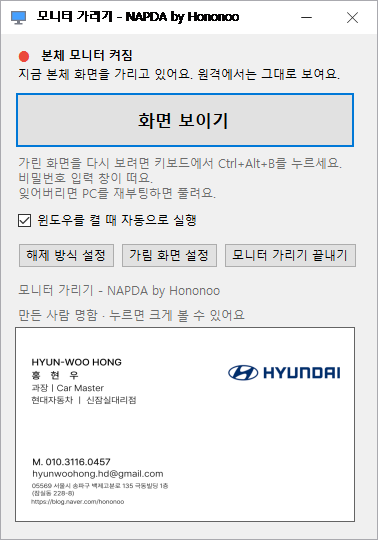
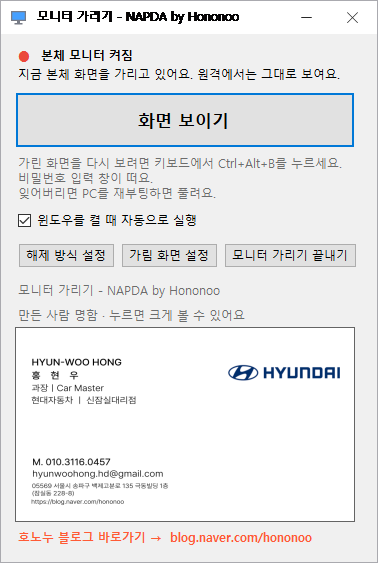
모니터 가리기 v1.7: 호노누 블로그 바로가기
- 명함 아래, 명함 크게 보기 창, 트레이 메뉴에 "호노누 블로그 바로가기"(blog.naver.com/hononoo)
- 정보 창에 호노누 블로그 주소, NAPDA 블로그 바로 열기
- 자가 테스트에 블로그 링크 확인 추가, README·문서용 그림 갱신

diff --git a/MonitorCover.cs b/MonitorCover.cs
@@ -40,17 +40,21 @@ namespace Napda.MonitorCover
         public const string Name = "모니터 가리기";
         public const string Company = "NAPDA";
         public const string Author = "Hononoo";
-        public const string ShortVersion = "1.6";
+        public const string ShortVersion = "1.7";
         public const string Version = ShortVersion + ".0.0";
         public const string Credit = Name + " - " + Company + " by " + Author;
         public const string Copyright = "Copyright (c) 2026 " + Author + " (" + Company + "). MIT License.";
-        // 블로그·포트폴리오 주소가 생기면 여기에 넣는다. 정보 창에서 바로 열 수 있다.
-        public const string Link = "";
+        // NAPDA 프로그램 블로그. 정보 창에서 바로 열 수 있다.
+        public const string Link = "https://napdaworks.blogspot.com";
+        // 만든 사람(호노누) 블로그. 명함 아래·명함 창·트레이 메뉴에서 바로 연다.
+        public const string AuthorBlog = "https://blog.naver.com/hononoo";
+        public const string AuthorBlogLabel = "blog.naver.com/hononoo";
 
         public const string Text =
             Name + " v" + ShortVersion + "\n" +
             "만든 곳: " + Company + " (냅다)\n" +
-            "만든 사람: " + Author + "\n\n" +
+            "만든 사람: " + Author + "\n" +
+            "호노누 블로그: " + AuthorBlogLabel + "\n\n" +
             "본체 모니터만 검게 가리고, 원격 화면에는 원래 화면이 그대로 보이게 해요.\n\n" +
             Copyright + "\n" +
             "수정하거나 다시 배포할 때도 만든 사람 표기를 지우면 안 돼요.";
@@ -1414,6 +1418,35 @@ namespace Napda.MonitorCover
     }
 
     // 명함을 크게 보여 주는 창
+    static class Links
+    {
+        public static void Open(string url)
+        {
+            try
+            {
+                Process.Start(url);
+            }
+            catch (Exception ex)
+            {
+                ErrorLog.Write(ex);
+            }
+        }
+
+        // "호노누 블로그 바로가기" 링크 (명함 아래·명함 창에 같이 쓴다)
+        public static LinkLabel AuthorBlog(Font font)
+        {
+            var link = new LinkLabel();
+            link.Text = "호노누 블로그 바로가기 →  " + About.AuthorBlogLabel;
+            link.Font = new Font(font, FontStyle.Bold);
+            link.AutoSize = true;
+            link.LinkColor = Color.FromArgb(255, 90, 54);
+            link.ActiveLinkColor = Color.FromArgb(200, 60, 30);
+            link.LinkBehavior = LinkBehavior.HoverUnderline;
+            link.LinkClicked += delegate { Open(About.AuthorBlog); };
+            return link;
+        }
+    }
+
     class CardViewer : Form
     {
         public CardViewer(Image card, Icon icon)
@@ -1429,7 +1462,15 @@ namespace Napda.MonitorCover
 
             Rectangle work = Screen.PrimaryScreen.WorkingArea;
             float fit = Math.Min(1f, Math.Min(work.Width * 0.8f / card.Width, work.Height * 0.8f / card.Height));
-            ClientSize = new Size((int)(card.Width * fit), (int)(card.Height * fit));
+            Font = Ui.Font;
+            LinkLabel blog = Links.AuthorBlog(Ui.Font);
+            var bottom = new Panel();
+            bottom.Dock = DockStyle.Bottom;
+            bottom.Height = blog.PreferredHeight + (int)(20 * Ui.Scale);
+            bottom.BackColor = Color.FromArgb(244, 245, 247);
+            blog.Location = new Point((int)(14 * Ui.Scale), (bottom.Height - blog.PreferredHeight) / 2);
+            bottom.Controls.Add(blog);
+            ClientSize = new Size((int)(card.Width * fit), (int)(card.Height * fit) + bottom.Height);
             var picture = new PictureBox();
             picture.Image = card;
             picture.SizeMode = PictureBoxSizeMode.Zoom;
@@ -1437,6 +1478,7 @@ namespace Napda.MonitorCover
             picture.Cursor = Cursors.Hand;
             picture.Click += delegate { Close(); };
             Controls.Add(picture);
+            Controls.Add(bottom);
             KeyDown += delegate(object sender, KeyEventArgs e)
             {
                 if (e.KeyCode == Keys.Escape) Close();
@@ -1752,6 +1794,9 @@ namespace Napda.MonitorCover
                 Ui.AddWide(grid, cardTitle);
                 Ui.AddWide(grid, cardBox);
             }
+            LinkLabel blog = Links.AuthorBlog(Ui.Font);
+            blog.Margin = new Padding(0, (int)(8 * scale), 0, 0);
+            Ui.AddWide(grid, blog);
             Controls.Add(grid);
         }
 
@@ -2004,6 +2049,7 @@ namespace Napda.MonitorCover
             menu.Items.Add(new ToolStripSeparator());
             menu.Items.Add(new ToolStripMenuItem("가림 화면 설정...", null, delegate { OpenCoverSettings(); }));
             menu.Items.Add(new ToolStripMenuItem("만든 사람 명함 보기", null, delegate { ShowCard(); }));
+            menu.Items.Add(new ToolStripMenuItem("호노누 블로그 바로가기", null, delegate { Links.Open(About.AuthorBlog); }));
             menu.Items.Add(new ToolStripMenuItem(About.Credit + " (v" + About.ShortVersion + ")", null, delegate { ShowAbout(); }));
             menu.Items.Add(new ToolStripMenuItem("종료", null, delegate { RequestReveal(QuitNow); }));
             menu.Opening += delegate
@@ -2512,6 +2558,7 @@ namespace Napda.MonitorCover
 
             using (Image card = CardImage.Load())
                 check(card != null && card.Width > 0, "business card is built into the exe");
+            check(About.AuthorBlog == "https://blog.naver.com/hononoo" && About.Text.Contains(About.AuthorBlogLabel), "maker's blog link is in the program");
             RectangleF wideOnTall = CoverLook.FillArea(new Size(100, 100), new Size(200, 100));
             check(wideOnTall.Height == 100 && wideOnTall.Width == 200 && wideOnTall.X == -50, "cover image fills the screen and crops the sides evenly");
             RectangleF tallOnWide = CoverLook.FillArea(new Size(1920, 1080), new Size(1080, 1920));

diff --git a/README.md b/README.md
@@ -1,6 +1,6 @@
 # 모니터 가리기
 
-**만든 곳: NAPDA (냅다) · 만든 사람: Hononoo** · MIT License · v1.6
+**만든 곳: NAPDA (냅다) · 만든 사람: Hononoo** · MIT License · v1.7
 
 본체에 연결된 모니터만 까맣게 가리는 윈도우 프로그램이에요. PC는 그대로 돌아가고, 원격 접속(크롬 원격 데스크톱 등) 화면에는 원래 화면이 그대로 보여요.
 
@@ -62,6 +62,7 @@
 | 해제 방식 설정... | 단축키를 바꾸고, 비밀번호를 걸거나 없애요 |
 | 가림 화면 설정... | 가릴 때 보일 색이나 이미지를 골라요 |
 | 만든 사람 명함 보기 | 만든 사람 명함을 크게 보여 줘요 |
+| 호노누 블로그 바로가기 | 만든 사람 블로그(blog.naver.com/hononoo)를 열어요 |
 | 실행하면 바로 가리기 | 프로그램이 켜지자마자 가려요 (아래 주의 참고) |
 | 윈도우 시작 시 자동 실행 | 시작프로그램 폴더에 바로가기를 만들어요. 로그인할 때는 창 없이 조용히 켜져요 |
 | 바탕화면 버튼 만들기 | 바탕화면 버튼을 지웠을 때 다시 만들어요 |
@@ -157,4 +158,4 @@
 
 누구나 무료로 쓰고, 고치고, 다시 배포할 수 있어요. 단, **저작권 표기("Copyright (c) 2026 Hononoo (NAPDA)")와 라이선스 문구는 지우면 안 돼요.**
 프로그램 안에도 exe 파일 속성(자세히 탭: 회사 NAPDA), 창 제목, 트레이 메뉴, 정보 창, 해제 방식 설정 창, 비밀번호 창, 바탕화면 버튼 설명에 만든 곳과 만든 사람이 표시돼 있어요.
-창 아래쪽에는 **만든 사람 명함**이 들어 있어요. 명함 그림은 exe 안에 들어 있어서 프로그램에서 지우거나 숨길 수 없고, 누르면 크게 볼 수 있어요.
+창 아래쪽에는 **만든 사람 명함**이 들어 있어요. 명함 그림은 exe 안에 들어 있어서 프로그램에서 지우거나 숨길 수 없고, 누르면 크게 볼 수 있어요. 명함 아래 **호노누 블로그 바로가기**를 누르면 [blog.naver.com/hononoo](https://blog.naver.com/hononoo)가 바로 열려요.
